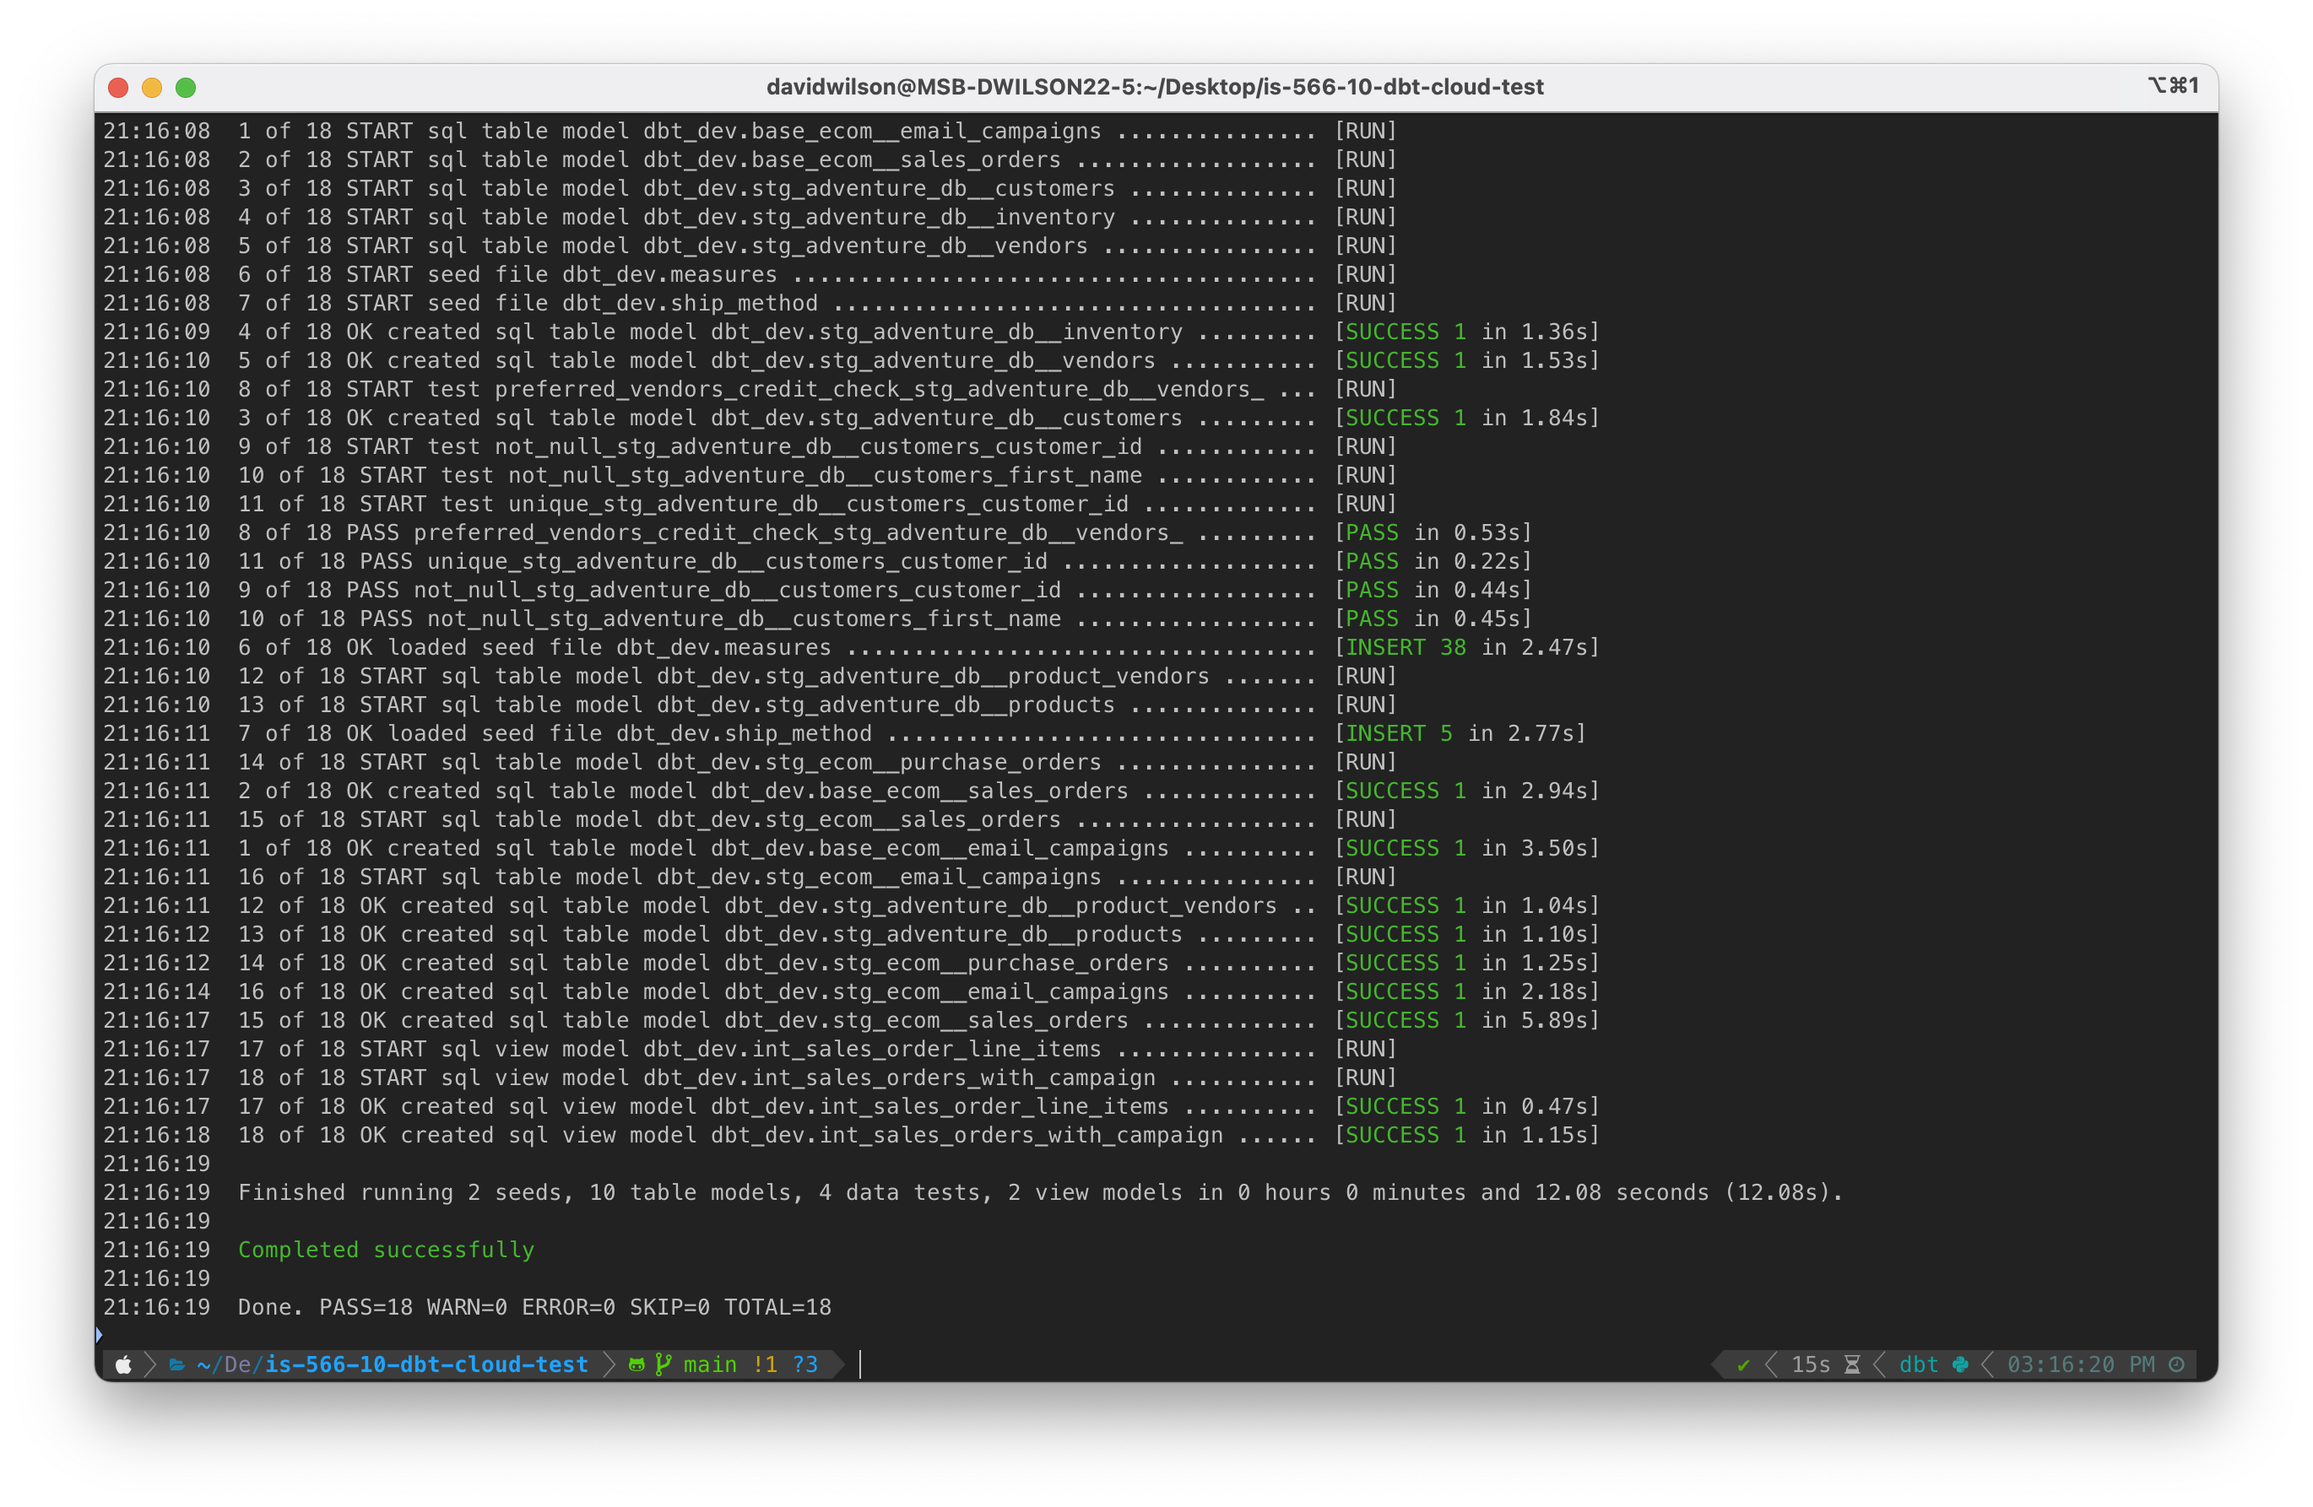
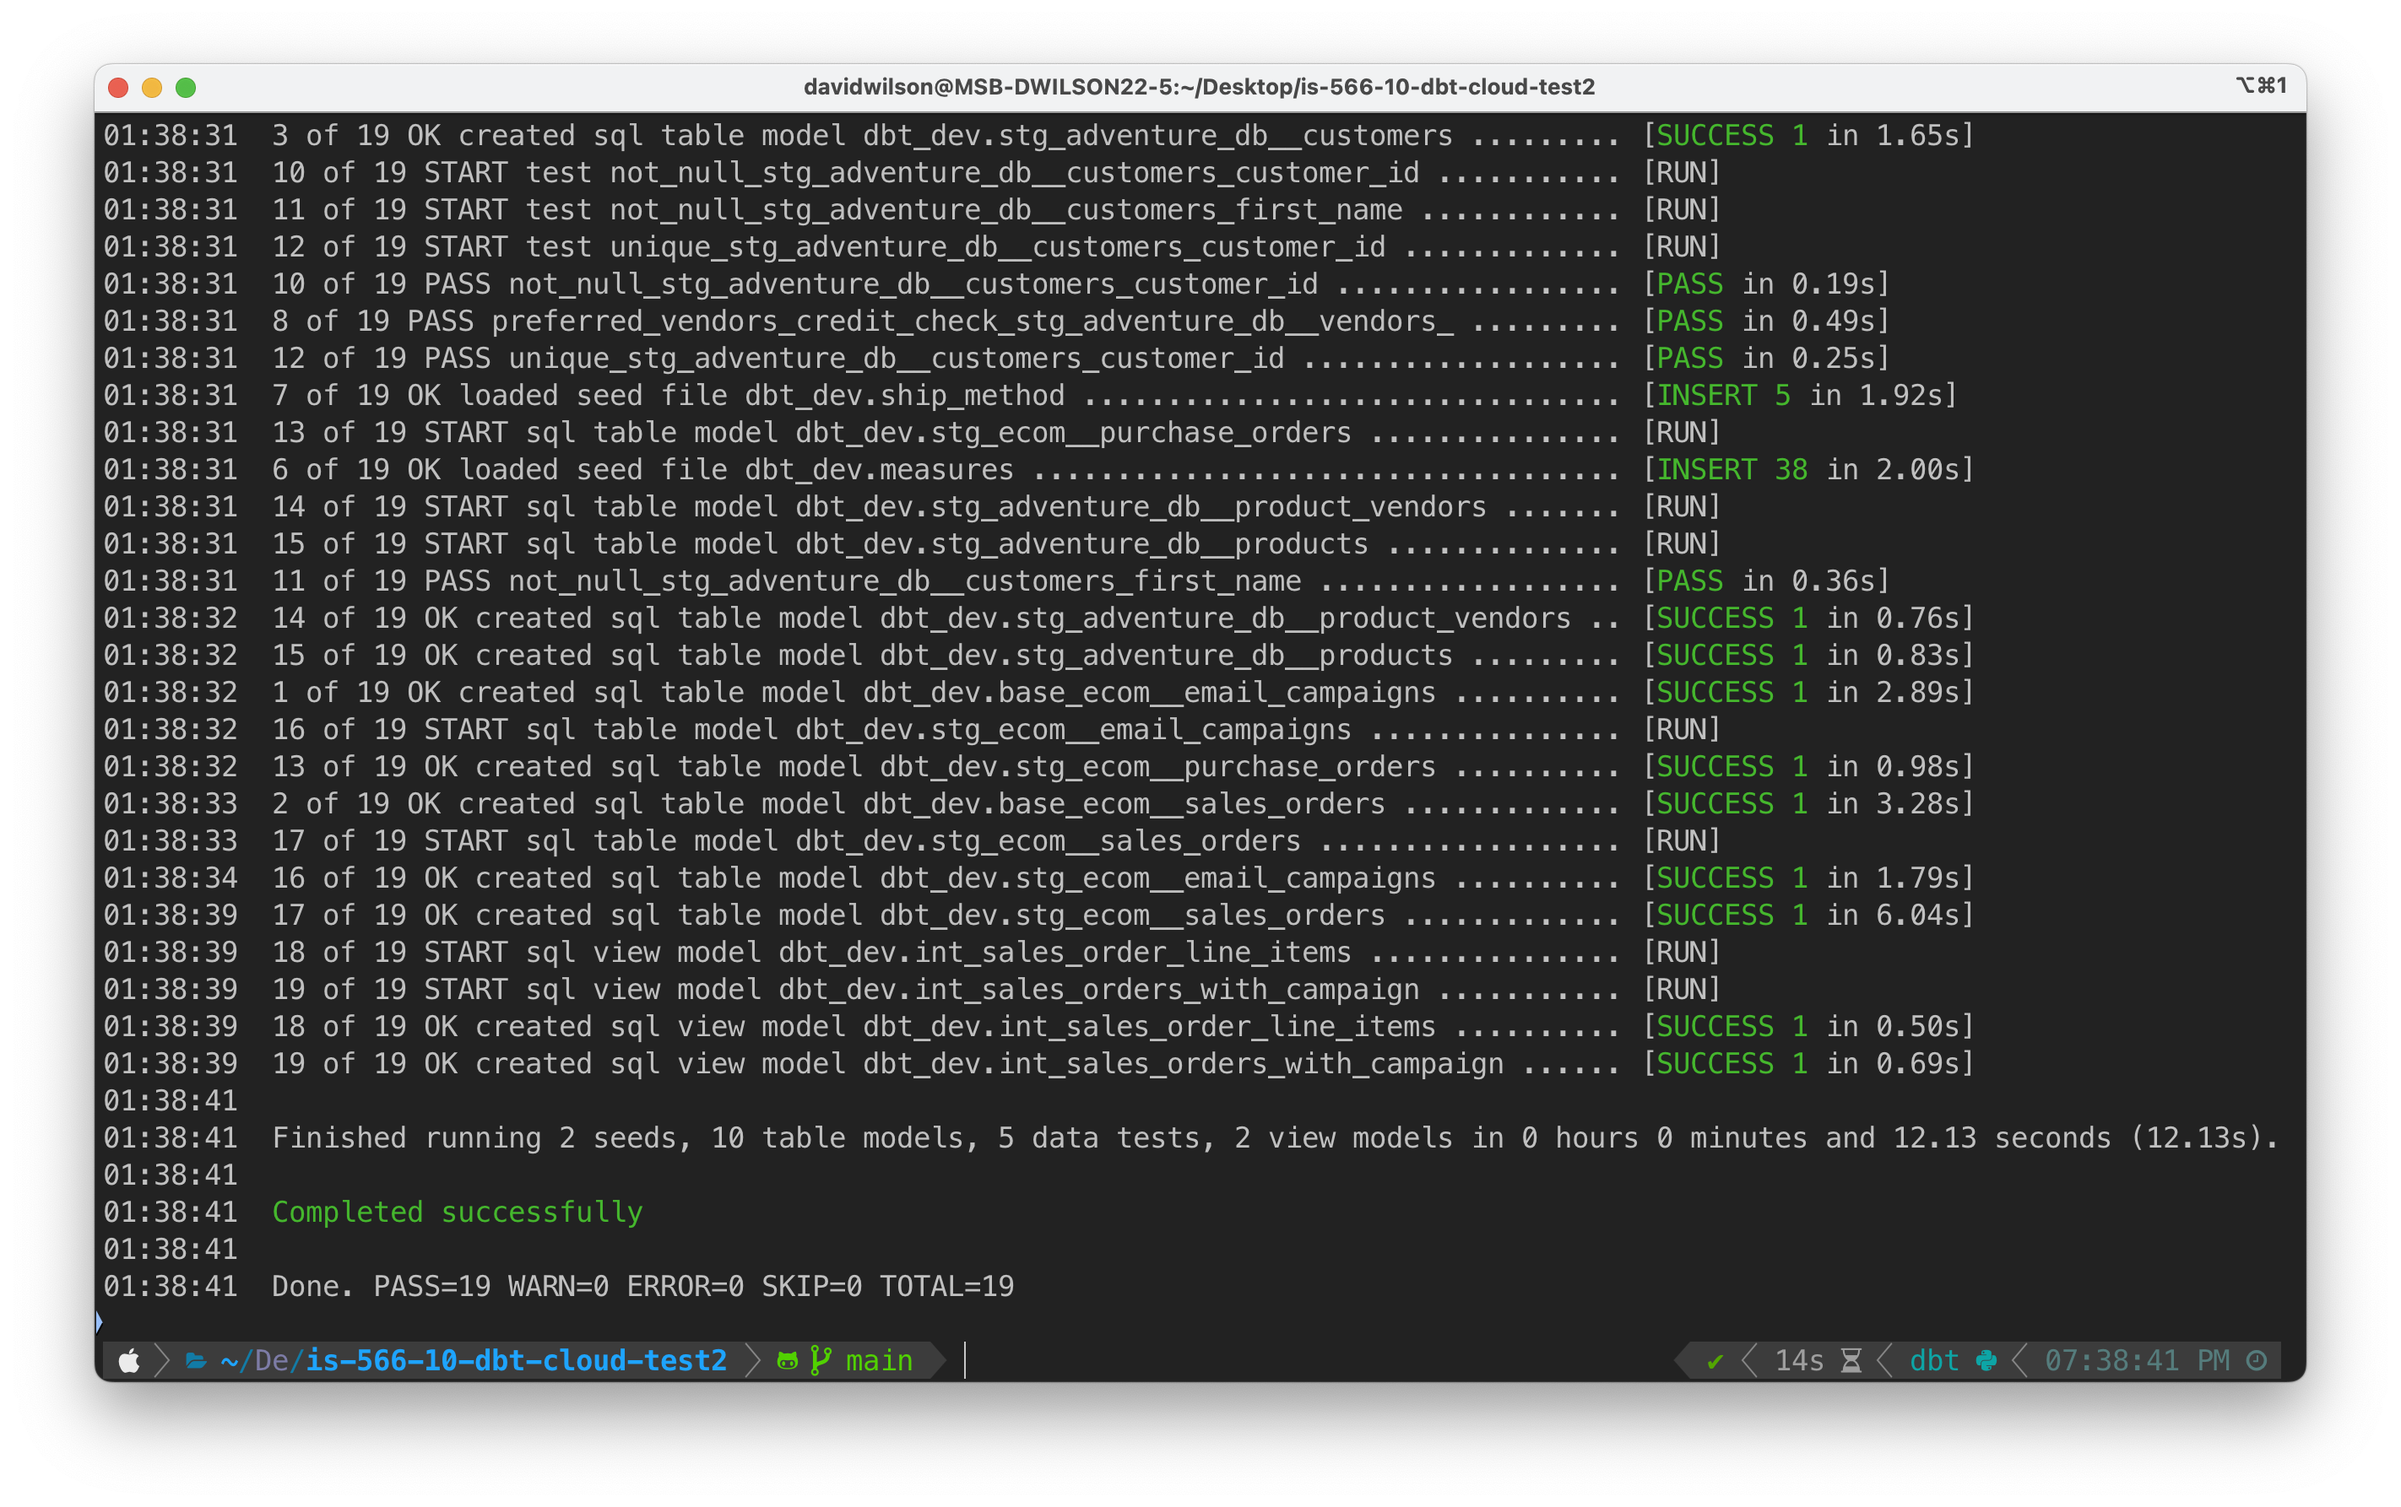
Updated a few of the early screenshots to align with the correct test count. Also where it is mentioned in the text.

diff --git a/README.md b/README.md
@@ -170,7 +170,7 @@ Let's practice! Using the documentation linked above, figure out how to add inte
 
 You know what would be better than two tests? Two more. Add further tests to the `stg_ecom__email_campaigns` model, ensuring that (1) `event_id` contains unique values, and (2) the event_type column contains _only_ the following exact values: `email_opened`, `add_to_cart`, `conversion`, and `email_clicked`.
 
-After adding these tests, you can run `dbt test` and verify that you now have 8 data tests passing, as in the screenshot below:
+After adding these tests, you can run `dbt test` and verify that you now have 9 data tests passing, as in the screenshot below:
 
 <img src="screenshots/readme_img/built_in_tests.png"  width="80%">
 
